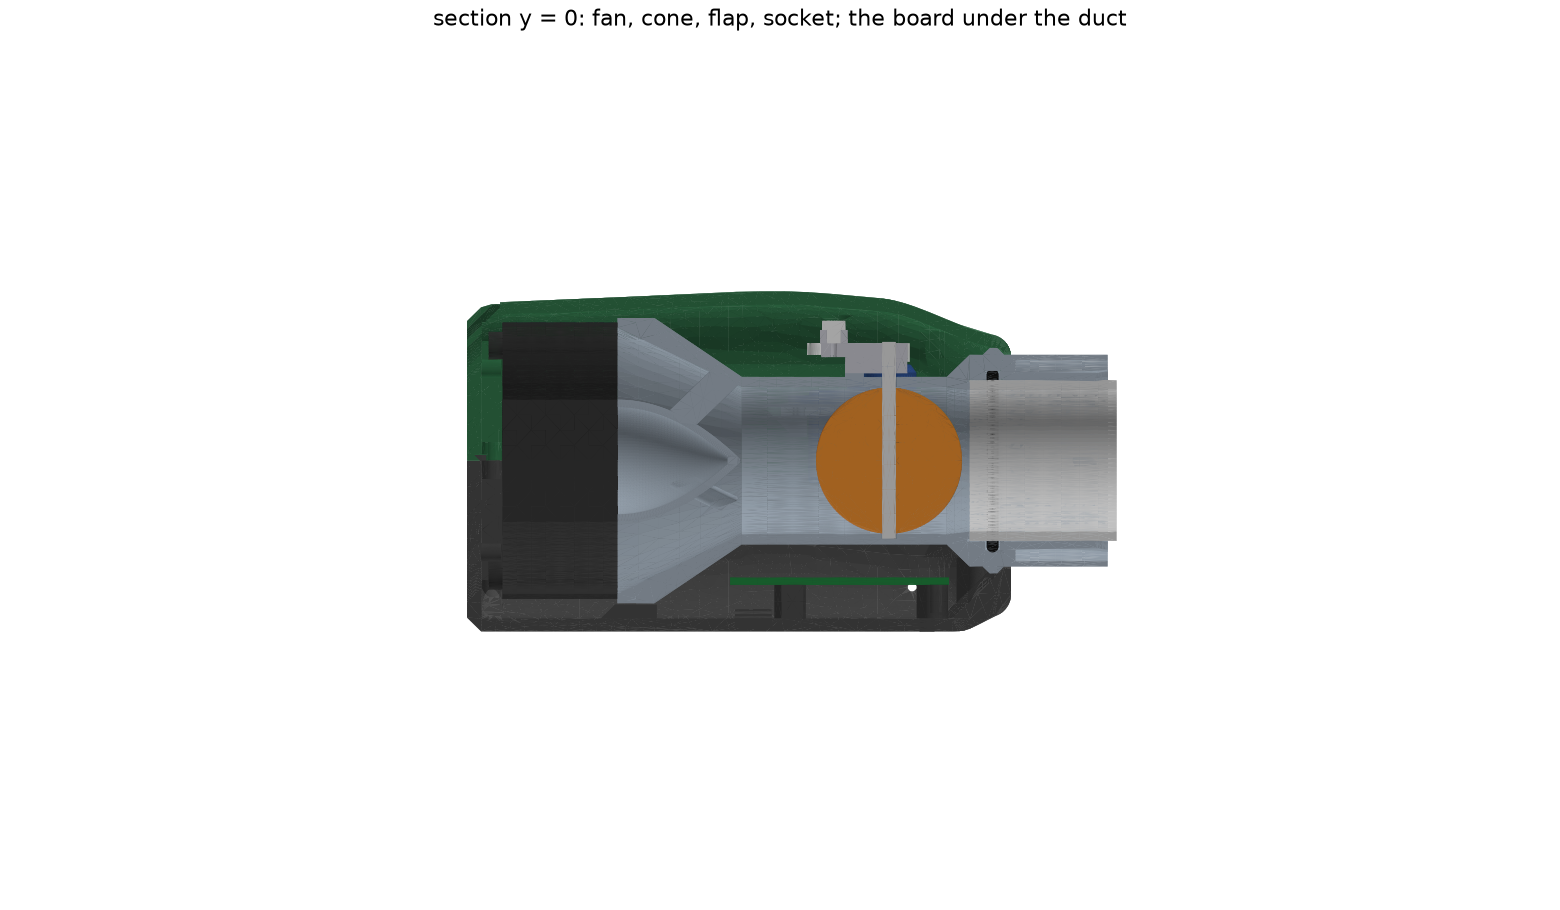
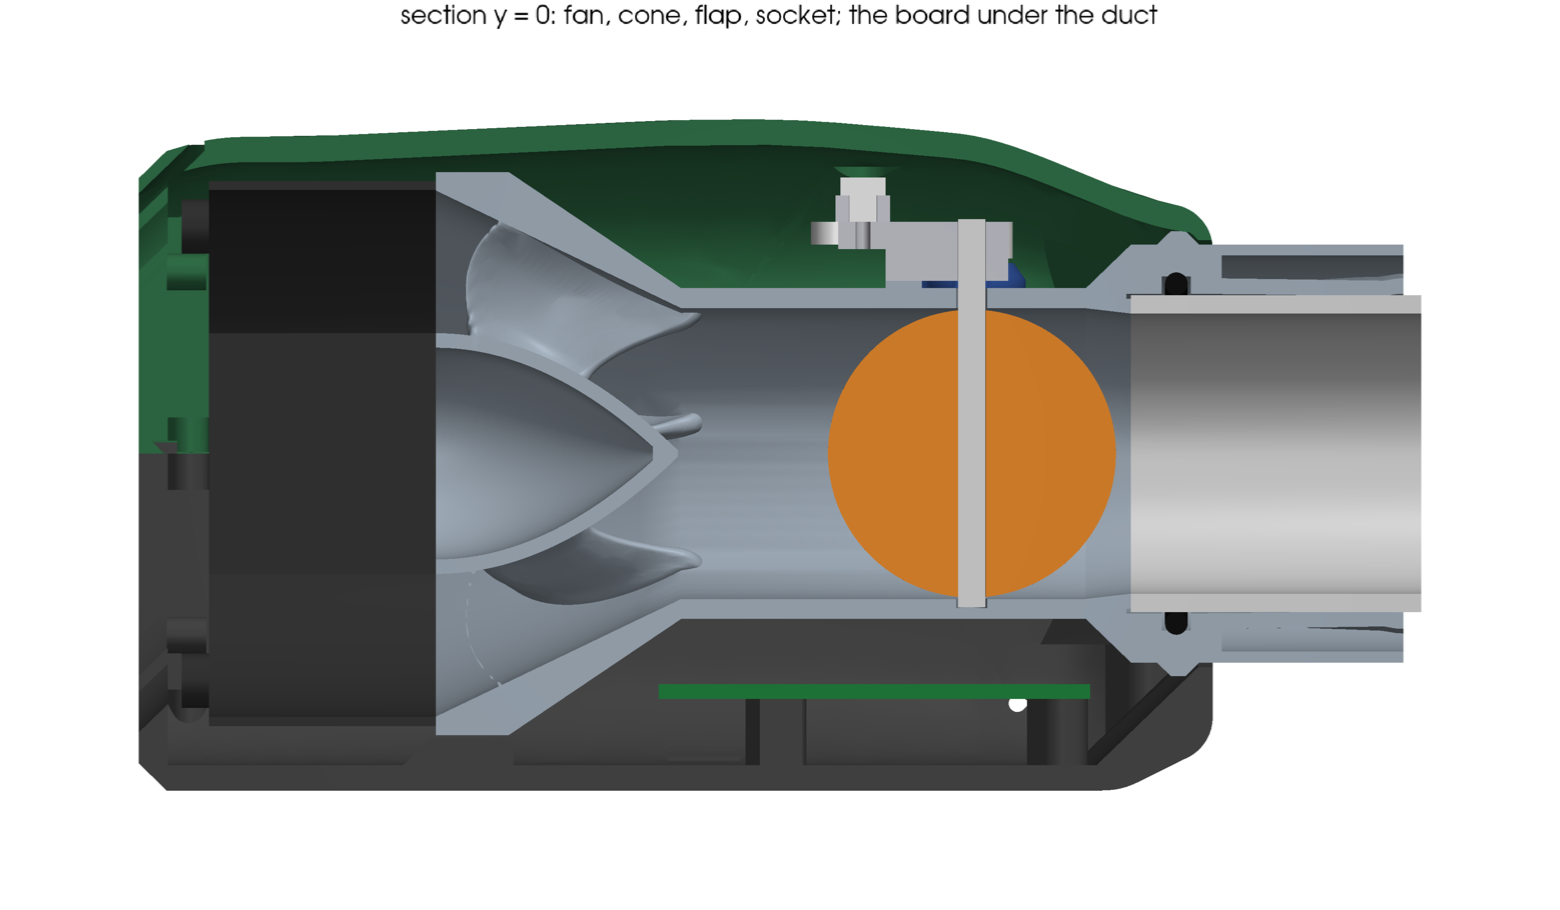
Mech: the stator vanes' chord follows the pitch (minimeat-seq.2.25). Each section's trailing edge is found so that its camber length over the pitch is HubCone.vane_solidity = 1.2: the pitch grows with the radius, so the vanes deepen toward the wall, the trailing edge from 16 mm behind the plate at t

diff --git a/src/minimeater/mech/parts.py b/src/minimeater/mech/parts.py
@@ -226,13 +226,14 @@ def vane_passage(x):
     return hub_profile(t), P.fan.aperture_d / 2 + (g.bore_r - P.fan.aperture_d / 2) * f
 
 
-def vane_half(u):
+def vane_half(u, t=None):
     """A vane's half thickness at u = 0 (leading edge) .. 1 (the trailing edge's round's centre), before the flare: NACA
-    4-digit on `vane_t`, its chord stretched so it thins to `vane_te_t` at u = 1."""
+    4-digit on thickness t (the hub's `vane_t` by default), its chord stretched so it thins to `vane_te_t` at u = 1."""
     h = P.hub_cone
+    t = h.vane_t[0] if t is None else t
 
     def naca(v):
-        return 5 * h.vane_t * (0.2969 * math.sqrt(v) - 0.1260 * v - 0.3516 * v**2 + 0.2843 * v**3 - 0.1015 * v**4)
+        return 5 * t * (0.2969 * math.sqrt(v) - 0.1260 * v - 0.3516 * v**2 + 0.2843 * v**3 - 0.1015 * v**4)
 
     lo, hi = 0.3, 1.0
     for _ in range(60):
@@ -254,23 +255,33 @@ def vane_section(eta, n=28):
     x0 = g.fan_face_x
     e = min(max(eta, 0.0), 1.0)
     xl = x0 + h.vane_le[0] + (h.vane_le[1] - h.vane_le[0]) * e - h.vane_le_bow * math.sin(math.pi * e)
-    xt = x0 + h.vane_te[0] + (h.vane_te[1] - h.vane_te[0]) * e
     m_fine = 400
-    xs, rs = [], []
-    for i in range(m_fine + 1):
-        x = xl + (xt - xl) * i / m_fine
-        rh, rw = vane_passage(x)
-        xs.append(x)
-        rs.append(rh + eta * (rw - rh))
-    ms = [0.0]
-    for i in range(m_fine):
-        ms.append(ms[-1] + math.hypot(xs[i + 1] - xs[i], rs[i + 1] - rs[i]))
+
+    def line(xt, et):
+        xs, rs = [], []
+        for i in range(m_fine + 1):
+            x = xl + (xt - xl) * i / m_fine
+            rh, rw = vane_passage(x)
+            xs.append(x)
+            rs.append(rh + et * (rw - rh))
+        ms = [0.0]
+        for i in range(m_fine):
+            ms.append(ms[-1] + math.hypot(xs[i + 1] - xs[i], rs[i + 1] - rs[i]))
+        return xs, rs, ms
+
+    def flow(xs, rs, ms):
+        rh, rw = vane_passage(xl)
+        beta = math.atan(h.swirl / 1000 * math.pi * (rw * rw - rh * rh) / rs[0])  # the air's angle from axial at the leading edge
+        pitch = 2 * math.pi * rs[m_fine // 2] / h.vanes
+        return beta, ms[-1] / math.cos(beta / 2) / pitch  # the camber line's length over the pitch
+
+    lo, hi = xl + 4.0, x0 + h.vane_te_max  # the trailing edge: the chord that makes the solidity (at the span inside the walls), within the limit
+    for _ in range(40):
+        mid = (lo + hi) / 2
+        lo, hi = (mid, hi) if flow(*line(mid, e))[1] < h.vane_solidity else (lo, mid)
+    xs, rs, ms = line(hi, eta)
     big_m = ms[-1]
-    rh, rw = vane_passage(xl)
-    area = math.pi * (rw * rw - rh * rh)
-    beta = math.atan(h.swirl / 1000 * area / rs[0])  # the air's angle from axial at the leading edge
-    pitch = 2 * math.pi * rs[m_fine // 2] / h.vanes
-    sigma = big_m / math.cos(beta / 2) / pitch  # the camber line's length over the pitch
+    beta, sigma = flow(xs, rs, ms)
     dev = h.vane_dev * beta / (math.sqrt(sigma) - h.vane_dev)  # camber = beta + dev, dev = m camber / sqrt(sigma)
     phi0, phi1 = -beta, dev
 
@@ -288,6 +299,7 @@ def vane_section(eta, n=28):
         f = (m - ms[j]) / (ms[j + 1] - ms[j])
         return (xs[j] + f * (xs[j + 1] - xs[j]), rs[j] + f * (rs[j + 1] - rs[j]), th[j] + f * (th[j + 1] - th[j]))
 
+    thick = h.vane_t[0] + (h.vane_t[1] - h.vane_t[0]) * e
     w = h.vane_flare_w
     flare = 1 + h.vane_flare * (math.exp(-((e / w) ** 2)) + math.exp(-(((1 - e) / w) ** 2)))
 
@@ -295,7 +307,7 @@ def vane_section(eta, n=28):
         """The outline at u, `side` (+1 toward +theta, -1 away) of the camber line, offset along its normal."""
         m = u * big_m
         p = phi(u)
-        d = side * vane_half(u) * flare
+        d = side * vane_half(u, thick) * flare
         x, r, _ = at(m - d * math.sin(p))
         _, r_c, t_c = at(m)
         return (x, r, t_c + d * math.cos(p) / r_c)

diff --git a/tests/test_mech.py b/tests/test_mech.py
@@ -220,7 +220,7 @@ def test_the_one_sided_flap_variant_is_a_valid_solid(monkeypatch):
 
 # Overhang inventory: faces steeper than 45 degrees off vertical, in the print pose. What is left must be
 # short bridges and small holes. A new patch or a bigger total means a change that needs a printing look.
-OVERHANG_AREA_MM2 = {"duct": 735}  # 724 measured: the six stator vanes' cambered undersides near their leading edges, 51-52 mm2 each (308: MJF only, which needs no supports; on FDM they would need supports inside the contraction), + 415 with the thumbscrew boss gone (its underside and hole rims were about 60): 340 - those + the 1.2 mm land at the shelf's rear end (27 mm2) + the front servo block's face toward the body (12 x 7 = 84 mm2, a bridge as short as it is deep) + the stop posts' ends toward the rod (two 3 mm bridges, about 8 mm2)
+OVERHANG_AREA_MM2 = {"duct": 695}  # 683 measured: the six stator vanes' cambered undersides near their leading edges, about 45 mm2 each (268: MJF only, which needs no supports; on FDM they would need supports inside the contraction), + 415 with the thumbscrew boss gone (its underside and hole rims were about 60): 340 - those + the 1.2 mm land at the shelf's rear end (27 mm2) + the front servo block's face toward the body (12 x 7 = 84 mm2, a bridge as short as it is deep) + the stop posts' ends toward the rod (two 3 mm bridges, about 8 mm2)
 
 
 @pytest.mark.parametrize("name", list(PARTS))
@@ -323,16 +323,17 @@ def test_the_tail_cone_fills_the_fan_hub_and_the_area_falls():
 
 
 def test_the_vanes_meet_the_swirl_and_are_no_thinner_than_the_printer_allows():
-    """Each vane's section is NACA thickness `vane_t` on a camber line, round-nosed and closed round at `vane_te_t` (the
-    thin-wall limit), thicker toward its roots. The camber line leaves the leading edge along the fan's swirl (the rotor
+    """Each vane's section is NACA thickness on a camber line (`vane_t`, thinning from the hub to the wall), round-nosed
+    and closed round at `vane_te_t` (the thin-wall limit), thicker toward its roots. The camber line leaves the leading edge along the fan's swirl (the rotor
     turns -theta about +x) and turns back past axial at the trailing edge."""
     from minimeater.mech.parts import vane_half, vane_section
 
     h = P.hub_cone
     us = [i / 400 for i in range(401)]
     assert vane_half(0.0) == 0.0
-    assert 2 * max(vane_half(u) for u in us) == pytest.approx(h.vane_t, abs=0.01)
-    assert 2 * vane_half(1.0) == pytest.approx(h.vane_te_t, abs=1e-6)
+    for t in h.vane_t:
+        assert 2 * max(vane_half(u, t) for u in us) == pytest.approx(t, abs=0.01)
+        assert 2 * vane_half(1.0, t) == pytest.approx(h.vane_te_t, abs=1e-6)
     for eta in (0.0, 0.5, 1.0):
         sec = vane_section(eta)
         le = min(sec, key=lambda p: p[0])

diff --git a/src/minimeater/mech/params.py b/src/minimeater/mech/params.py
@@ -309,12 +309,13 @@ class HubCone:
     swirl: float = 18.0  # [est] r c_theta / Q in 1/m: Euler's work (dp = rho omega r c_theta) on the model's line at 0.6-1.0 speed (18-21); it is set by the system's curve, not the speed
     vane_le: tuple[float, float] = (4.0, 7.0)  # the leading edge behind the plate at the hub and at the wall, mm ...
     vane_le_bow: float = 2.0  # ... bowed forward this much at mid span (a swept, crescent leading edge)
-    vane_te: tuple[float, float] = (17.0, 26.0)  # the trailing edge at the hub and at the wall
-    vane_t: float = 1.8  # the section: NACA 4-digit thickness on its camber line ...
+    vane_solidity: float = 1.2  # each section's chord is what makes camber length / pitch this: the pitch grows with the radius, so the chord does, longest at the wall
+    vane_te_max: float = 31.0  # mm behind the plate: no trailing edge past this (the bore's start is 27, the flap's swing 43)
+    vane_t: tuple[float, float] = (2.2, 1.5)  # the section: NACA 4-digit thickness on its camber line, at the hub and at the wall ...
     vane_te_t: float = 1.2  # ... cut where it thins to this (the thin-wall limit) and closed round
     vane_flare: float = 0.9  # extra thickness (times vane_t) where a vane meets the cone and the wall: a fillet's blend ...
     vane_flare_w: float = 0.12  # ... over this fraction of the span
-    vane_dev: float = 0.23  # Carter's m: the air leaves a cambered vane short of its metal angle by m camber / sqrt(solidity); the vane overturns by that
+    vane_dev: float = 0.28  # (0.23 left 9 % of the swirl, with the rotor) Carter's m: the air leaves a cambered vane short of its metal angle by m camber / sqrt(solidity); the vane overturns by that
 
 
 @dataclass(frozen=True)

diff --git a/docs/mech.md b/docs/mech.md
@@ -34,8 +34,8 @@ The full list of what to buy, with quantities for five units, is `docs/ordering.
 
 - The fan's outlet face carries its motor plate, a flat Ø26.5 disc that is part of Noctua's frame (stationary; checked in their STEP model: 3 mm thick, flush with the outlet face, four swept struts, the label in a Ø20 × 0.45 recess). Behind it the flow would leave a dead zone. A tail cone printed with the duct fills it: Ø26.5 at the plate, flush with the flange face, parallel to the axis there so the flow leaves the plate's edge without a turn, closing as r₀(1 − t²) to a point at the bore's start, 27 mm on (`HubCone`). The annulus' area then falls all the way, 2091 mm² at the fan to the bore's 804 (a test holds it monotonic): the flow accelerates the whole length and stays attached.
 - It is hollow (1.6 mm wall) and open toward the fan: MJF is priced by volume, and a closed hollow would trap powder. Six stator vanes hold it from the contraction's wall, one straight up and one straight down (`HubCone.vanes`; six is co-prime with the rotor's seven blades, so the two share no tone). They are there for the swirl as much as the support. The rotor leaves the air turning with it (clockwise looking downstream, read off the blades in Noctua's model), and by Euler's equation a rotor that makes Δp has given the air at least r·c_θ = Δp / (ρω): on the model's operating line (0.6 to full speed, 4.2 CFM at full) that is r·c_θ / Q ≈ 18-21 per metre, independent of the speed because the system's curve sets both (`HubCone.swirl` = 18, a floor: the rotor's losses only add to it). That is 58° from the axis at the fan's face, and the contraction spins it up (42° and 8.9 Pa of swirl head in the bore with plain struts).
-- Each vane's section is a NACA 4-digit thickness (1.8 mm, closed round at the 1.2 mm thin-wall limit) laid on a circular-arc camber line in the passage between the cone and the wall, at a fixed fraction of the passage's height. The camber line starts along the air's direction at the leading edge (the free vortex: tan = swirl · Q · A / r, about 69° at the hub and 50° at the wall) and turns to axial plus Carter's deviation (m = 0.23 over √solidity: the air leaves a cambered vane short of its metal angle, so the vane overturns by it). The leading edge is a forward-bowed crescent, 4 mm behind the plate at the hub and 7 at the wall; the trailing edge runs from 17 mm (where the cone is Ø16) to 26. The roots flare to 1.9× the thickness over the last 12 % of the span each end, a fillet's blend into the cone and the wall. Each vane wraps 51° round the axis at the hub and 24° at the wall. It is built as a loft through periodic splines, a skin closed by filled caps buried in the cone and the wall (OCC's capped loft of non-planar sections is invalid).
-- The coarse steady CFD (6 CFM, the fan's swirl as a free vortex at the inlet; `.2.25`): the duct's static loss is 25.1 Pa with the three plain struts and 13.5 with the vanes, which take out 91 % of the angular momentum (9° left in the bore, 0.13 Pa of swirl head in the tube). Without swirl the struts lose 14.6 and the vanes 18.5: the vanes win whenever the fan's real swirl is more than about half the Euler floor. The fan's own exit swirl from its rotor (MRF on Noctua's model) is the next check.
+- Each vane's section is a NACA 4-digit thickness laid on a circular-arc camber line in the passage between the cone and the wall, at a fixed fraction of the passage's height. It thins from the root to the tip, 2.2 mm at the cone to 1.5 at the wall (`HubCone.vane_t`), and is closed round where it reaches the 1.2 mm thin-wall limit. The camber line starts along the air's direction at the leading edge (the free vortex: tan = swirl · Q · A / r, about 69° at the hub and 50° at the wall) and turns to axial plus Carter's deviation (m = 0.28 over √solidity: the air leaves a cambered vane short of its metal angle, so the vane overturns by it; 0.23 left 9 % of the swirl). Each section's chord is whatever gives it a solidity (camber length over pitch) of 1.2, so the vanes deepen toward the wall, where the pitch is widest: the trailing edge runs from 16 mm behind the plate at the hub to 29.5 at the wall (`vane_te_max` = 31, inside the flap's swing). The leading edge is a forward-bowed crescent, about 3.5 mm behind the plate at the hub and 7 at the wall. The roots flare to 1.9× the thickness over the last 12 % of the span each end, a fillet's blend into the cone and the wall. Each vane wraps 43° round the axis at the hub and 25° at the wall. It is built as a loft through periodic splines, a skin closed by filled caps buried in the cone and the wall (OCC's capped loft of non-planar sections is invalid).
+- The coarse steady CFD (6 CFM, the fan's swirl as a free vortex at the inlet; `.2.25`): the duct's static loss is 25.1 Pa with the three plain struts and 13.5 with the first, fixed-chord vanes (17-26 mm trailing edge, 1.8 mm thick, m = 0.23; the solidity-driven ones above are yet to run), which take out 91 % of the angular momentum (9° left in the bore, 0.13 Pa of swirl head in the tube). Without swirl the struts lose 14.6 and the vanes 18.5: the vanes win whenever the fan's real swirl is more than about half the Euler floor. The fan's own exit swirl from its rotor (MRF on Noctua's model) is the next check.
 - It is printed, not glued to the fan: printed, it is concentric to the bore by construction and cannot sag or shift on an adhesive.
 
 ## Coupling to the tube
